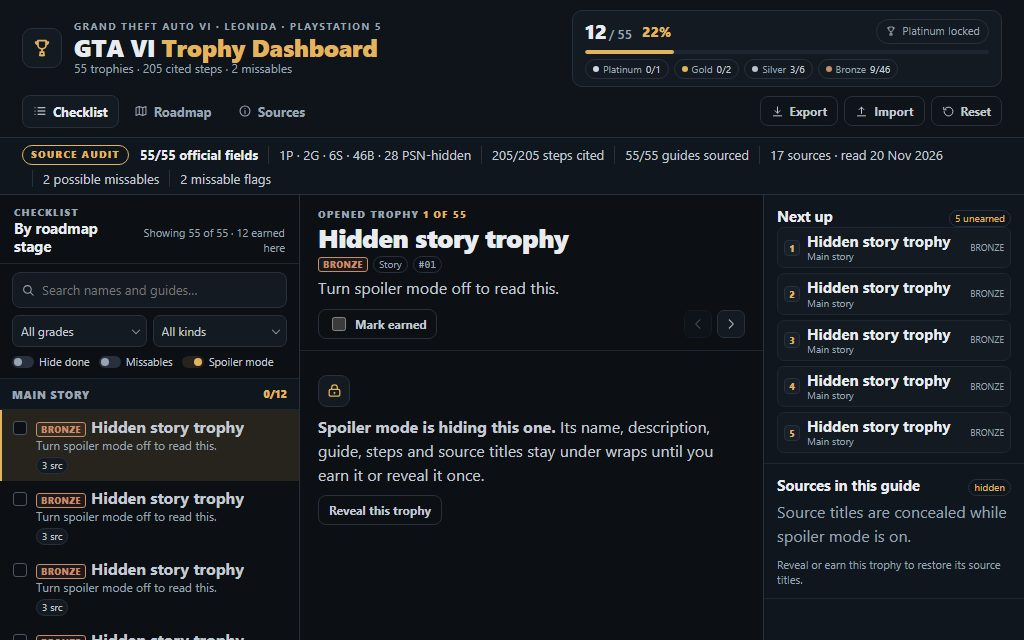
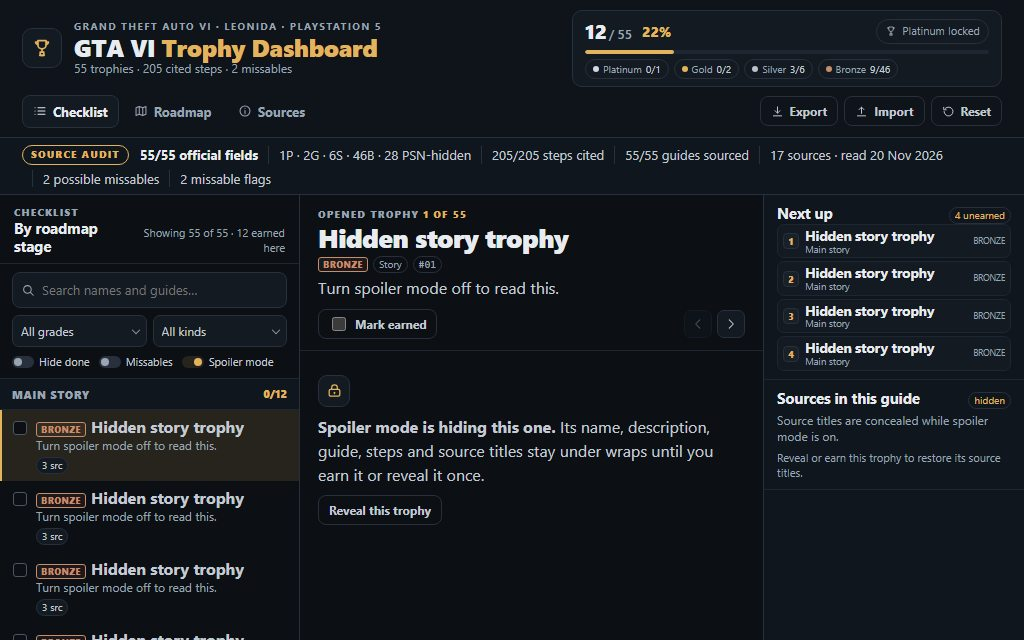
Sources rail: one compact line per source with its domain, all five visible at sheet size

Changed region(s): [[0.75, 0.3125, 1.0, 0.8438], [0.75, 0.875, 0.9688, 0.9062]]

diff --git a/app/style.css b/app/style.css
@@ -595,7 +595,7 @@ select {
   scrollbar-width: thin;
   scrollbar-color: var(--line) transparent;
 }
-.side-section { padding: 11px 13px 10px; border-bottom: 1px solid var(--line-soft); }
+.side-section { padding: 8px 13px; border-bottom: 1px solid var(--line-soft); }
 .side-head { display: flex; align-items: baseline; justify-content: space-between; gap: 6px; }
 .side-tag {
   font-size: 10px; color: var(--accent);
@@ -606,15 +606,15 @@ select {
   font-variant-numeric: tabular-nums;
 }
 .side-note { margin: 2px 0 7px; font-size: 11px; line-height: 1.3; color: var(--muted); }
-.next-list { list-style: none; margin: 0; padding: 0; display: grid; gap: 5px; }
+.next-list { list-style: none; margin: 0; padding: 0; display: grid; gap: 3px; }
 .next-item {
   width: 100%;
-  display: flex; align-items: center; gap: 7px;
+  display: flex; align-items: center; gap: 6px;
   text-align: left;
   border: 1px solid var(--line-soft);
   background: var(--surface);
   border-radius: 7px;
-  padding: 5px 6px;
+  padding: 3px 5px;
   cursor: pointer;
   color: var(--text);
 }
@@ -631,16 +631,16 @@ select {
 }
 .next-body { min-width: 0; flex: 1; display: grid; }
 .next-name {
-  font-size: 15px; line-height: 1.15;
+  font-size: 13.5px; line-height: 1.15;
   font-weight: 650;
   white-space: nowrap; overflow: hidden; text-overflow: ellipsis;
 }
 .next-stage {
-  font-size: 10px; line-height: 1.2;
+  font-size: 9.5px; line-height: 1.15;
   color: var(--muted);
   white-space: nowrap; overflow: hidden; text-overflow: ellipsis;
 }
-.next-grade { font-size: 9px; text-transform: uppercase; color: var(--muted); flex: none; }
+.next-grade { font-size: 8.5px; text-transform: uppercase; color: var(--muted); flex: none; }
 .source-list { list-style: none; margin: 0; padding: 0; display: grid; gap: 0; }
 .source-row, .trophy-source {
   display: grid; gap: 2px;
@@ -661,11 +661,38 @@ select {
   color: var(--muted);
   overflow-wrap: anywhere;
 }
-.trophy-source { padding: 4px 0; }
-.trophy-source a { white-space: nowrap; overflow: hidden; text-overflow: ellipsis; }
-.trophy-source strong { display: -webkit-box; -webkit-box-orient: vertical; -webkit-line-clamp: 2; overflow: hidden; }
+.trophy-source {
+  display: flex; align-items: baseline; gap: 6px;
+  padding: 3px 0;
+  white-space: nowrap;
+}
+.trophy-source .chip--id { flex: none; }
+.trophy-source .source-domain {
+  font-size: 14px; line-height: 1.25;
+  color: var(--accent);
+  font-weight: 700;
+  flex: none;
+  white-space: nowrap;
+}
+.trophy-source .source-kind {
+  min-width: 0;
+  margin-left: auto;
+  overflow: hidden;
+  text-overflow: ellipsis;
+  font-size: 9.5px; line-height: 1.25;
+  letter-spacing: .055em;
+  text-transform: uppercase;
+  color: var(--muted);
+}
+.trophy-source--note {
+  display: block;
+  white-space: normal;
+  font-size: 12px;
+  line-height: 1.35;
+}
+.source-title-ref { display: none; }
 .source-meta { font-size: 10px; line-height: 1.3; color: var(--muted); }
-#trophy-sources-note { margin: 6px 0 0; }
+#trophy-sources-note { margin: 4px 0 0; }
 
 .panel-scroll {
   flex: 1; min-height: 0;

diff --git a/app/app.js b/app/app.js
@@ -295,22 +295,21 @@ function renderGuideSourceRow(value) {
   const id = Number(value);
   const source = SOURCE_REGISTER.byId.get(id) || null;
   const item = createNode('li', 'trophy-source');
-  const top = createNode('div', 'trophy-source-top');
-  top.append(createNode('span', 'chip chip--id', '[' + id + ']'));
   if (!source) {
-    top.append(createNode('strong', '', 'Source ' + id));
-    item.append(top);
+    item.title = 'Source ' + id;
+    item.append(createNode('span', 'chip chip--id', '[' + id + ']'), createNode('span', 'source-domain', 'Source ' + id));
     return item;
   }
-  const sourceTitle = createNode('strong', '', source.title);
-  sourceTitle.title = source.title;
-  top.append(sourceTitle);
+  item.title = '[' + id + '] ' + source.title + ' \u2014 ' + source.url;
+  item.append(createNode('span', 'chip chip--id', '[' + id + ']'), document.createTextNode(' '));
   const link = createNode('a', '', sourceDomainLabel(source.url));
   link.href = source.url;
-  link.title = source.url;
+  link.className = 'source-domain';
+  link.title = item.title;
   link.target = '_blank';
   link.rel = 'noopener noreferrer';
-  item.append(top, link, createNode('span', 'source-meta', source.kind + ' · read ' + formatSourceReadDate(source.read)));
+  const sourceTitle = createNode('strong', 'source-title-ref', source.title);
+  item.append(link, document.createTextNode(' '), createNode('span', 'source-kind', source.kind), document.createTextNode(' '), sourceTitle);
   return item;
 }
 
@@ -349,7 +348,7 @@ function renderSourcesForGuide(trophy, masked) {
   const sourcesList = DOM_BY_ID['trophy-sources'];
   sourcesList.replaceChildren();
   if (masked) {
-    sourcesList.append(createNode('li', 'trophy-source muted', 'Source titles are concealed while spoiler mode is on.'));
+    sourcesList.append(createNode('li', 'trophy-source trophy-source--note muted', 'Source titles are concealed while spoiler mode is on.'));
   } else {
     for (const source of sources) sourcesList.append(renderGuideSourceRow(source));
   }
@@ -566,7 +565,7 @@ function toggleTrophyEarned(id, earned) {
 function renderNextUpQueue() {
   const list = DOM_BY_ID['next-up-list'];
   if (!list) return;
-  const unearned = TROPHY_REGISTER.roadmapOrder.filter((trophy) => !isTrophyEarned(trophy)).slice(0, 5);
+  const unearned = TROPHY_REGISTER.roadmapOrder.filter((trophy) => !isTrophyEarned(trophy)).slice(0, 4);
   const tag = DOM_BY_ID['next-up-section'].querySelector('.side-tag');
   if (tag) tag.textContent = unearned.length + ' unearned';
   list.replaceChildren();
